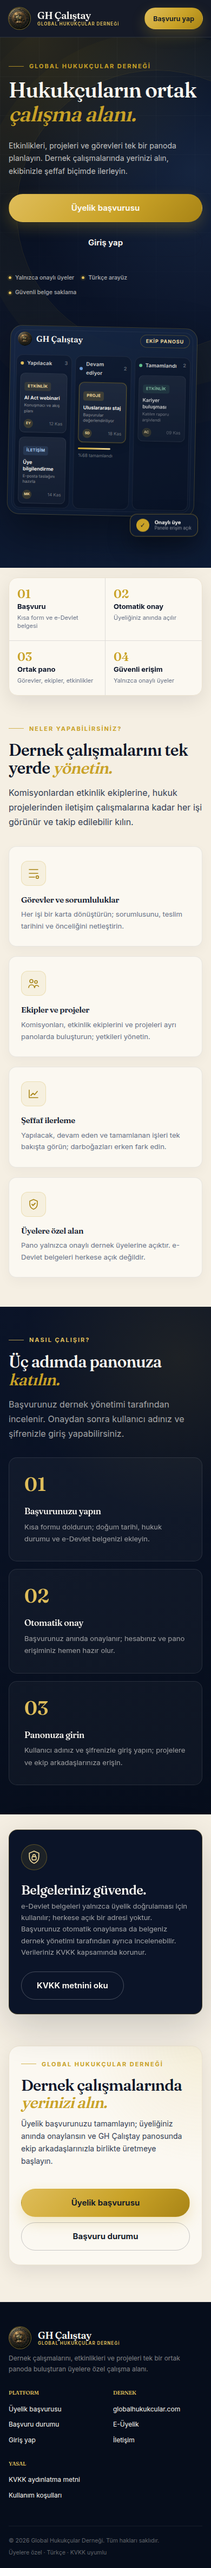
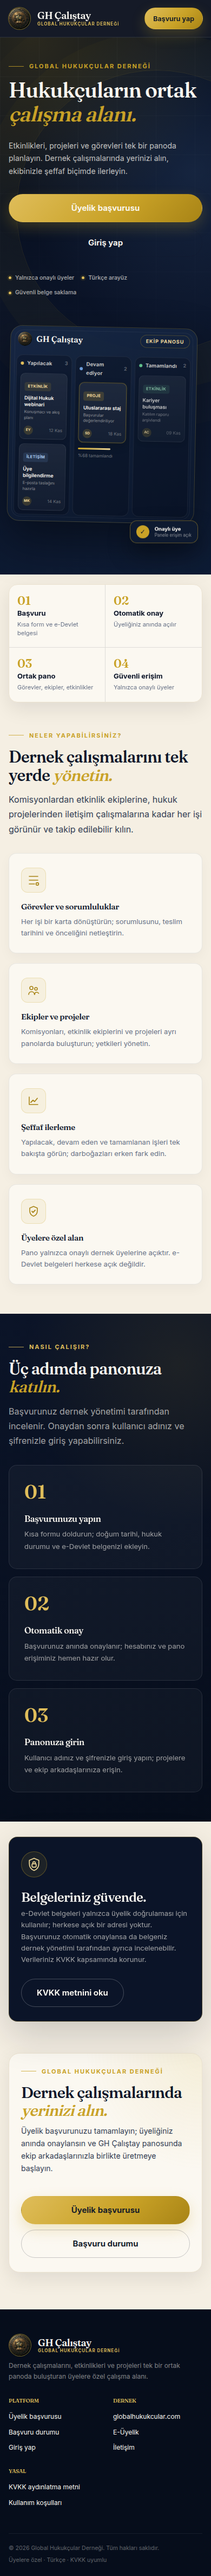
chore: metin ve geliştirici araç referanslarını temizle

diff --git a/plugins/GhdMembership/Template/membership/landing.php b/plugins/GhdMembership/Template/membership/landing.php
@@ -47,7 +47,7 @@ include __DIR__ . '/_head.php';
                         <div class="ghd-preview-head"><span class="dot dot-gold"></span> Yapılacak <small>3</small></div>
                         <div class="ghd-preview-card">
                             <span class="ghd-chip">Etkinlik</span>
-                            <strong>AI Act webinari</strong>
+                            <strong>Dijital Hukuk webinari</strong>
                             <small>Konuşmacı ve akış planı</small>
                             <div class="ghd-preview-meta"><span class="ghd-avatar">EY</span><span>12 Kas</span></div>
                         </div>

diff --git a/AGENTS.md b/AGENTS.md
@@ -52,8 +52,7 @@ Bir görev, aşağıdakilerin tamamı kanıtlanmadan "bitti" sayılmaz:
 
 - Dinamik loop: fazları sırayla bitir; kabul kriterini kanıtlamadan ilerleme.
 - Keşif ve kodlama işleri alt ajanlara devredilebilir; ana ajan raporu doğrular.
-- Alt ajanlar `opencode-go/deepseek-v4.1-flash#max` modeliyle, background'da
-  çalıştırılır; ana ajan başlarında beklemez.
+- Alt ajanlar background'da çalıştırılır; ana ajan başlarında beklemez.
 - Her anlamlı adımdan sonra `type(scope): açıklama` formatında commit atılır.
 - Context en fazla 3 kez compact edilir; 3. compact sonrası kullanıcı uyarılır.
 - Her fazın sonunda `docs/DURUM.md` ve `docs/TASKS.md` güncellenir.

diff --git a/SECURITY.md b/SECURITY.md
@@ -3,7 +3,7 @@
 Kanboard is currently in **maintenance mode**.
 There is no active feature development, only occasional bug fixes and small improvements.
 
-Private vulnerability reporting on GitHub has been **disabled** due to a high volume of low-quality, AI-generated reports.
+Private vulnerability reporting on GitHub has been **disabled** due to a high volume of low-quality, automatically generated reports.
 
 Reviewing these reports takes time away from the people maintaining the project.
 Most submissions are invalid, theoretical, non-exploitable, require unrealistic conditions, or describe simple bugs rather than real security issues.
